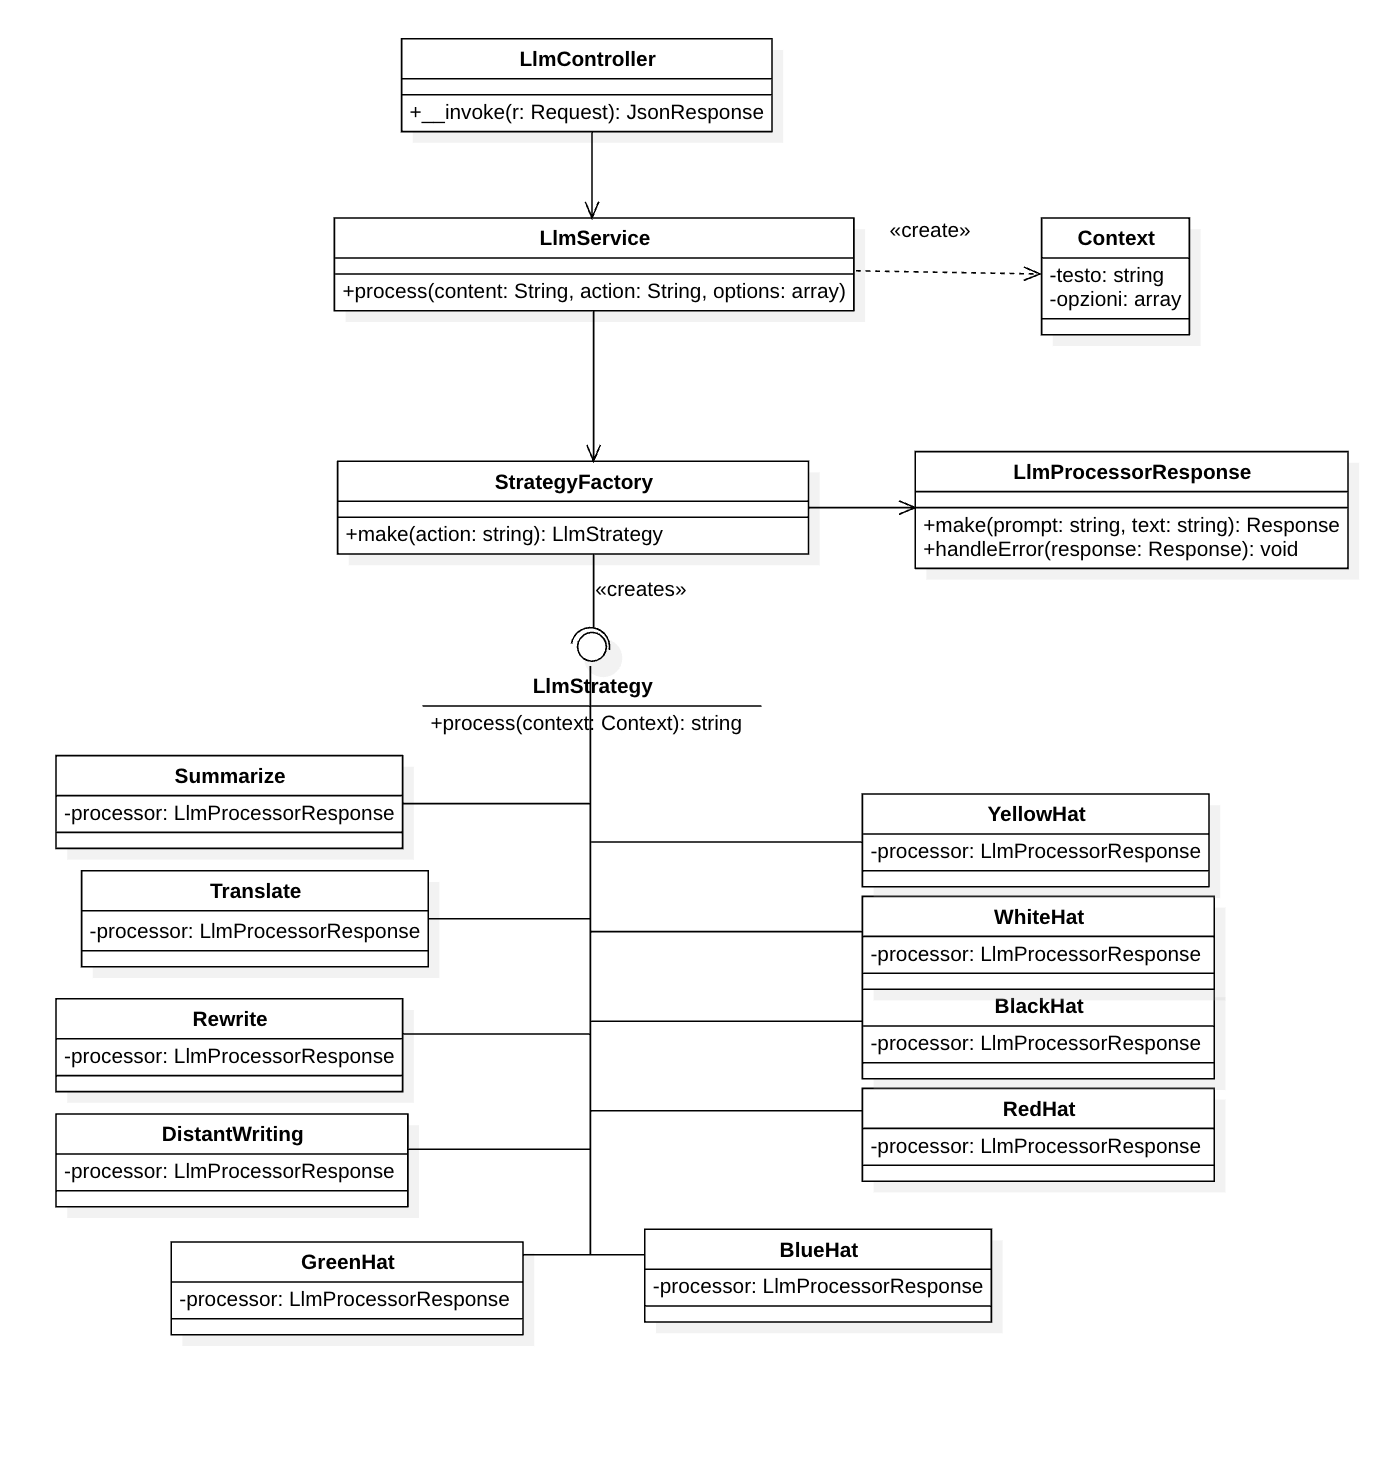
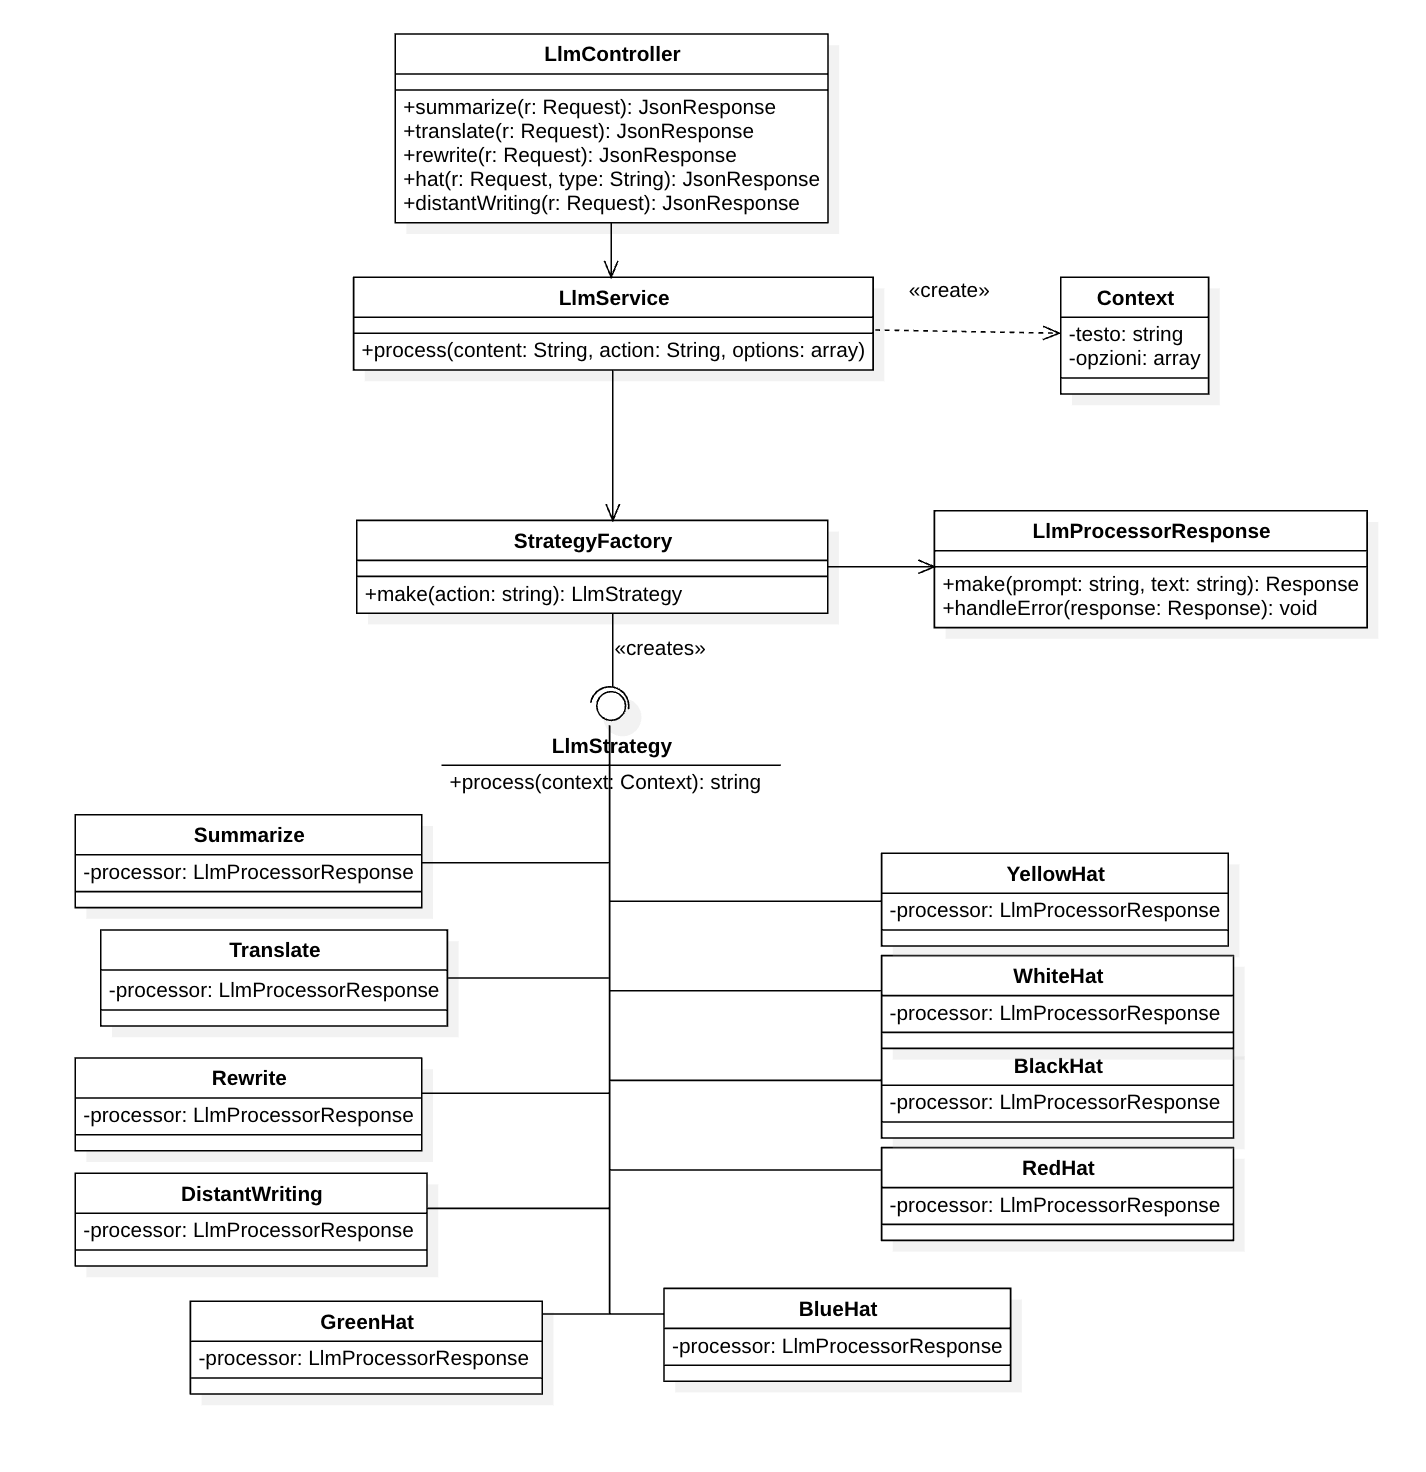
fix parte backend LlmController

diff --git a/PB/latex/Specifica_Tecnica_v0.8.tex b/PB/latex/Specifica_Tecnica_v0.8.tex
@@ -461,9 +461,13 @@ La suddivisione in questi strati facilita lo sviluppo, la manutenzione e la scal
     \caption{Diagramma delle classi per Interazione con LLM}
     \label{fig:interazione-llm}
 \end{figure}
-\subparagraph{LlmController} È il controller HTTP responsabile della gestione delle richieste di elaborazione del testo tramite modelli linguistici. Appartiene al layer di presentazione dell'architettura layered ed è implementato come controller invocabile dato che la sua responsabilità è circoscritta a una sola operazione. Si limita a validare i dati in ingresso, delegare l'elaborazione a \textit{LlmService} e restituire il risultato in formato JSON. Segue la descrizione dei metodi: 
+\subparagraph{LlmController} È il controller HTTP responsabile della gestione delle richieste di elaborazione del testo tramite modelli linguistici. Appartiene al layer di presentazione dell'architettura layered. Si limita a validare i dati in ingresso, delegare l'elaborazione a \textit{LlmService} e restituire il risultato in formato JSON. Segue la descrizione dei metodi: 
 \begin{itemize}
-    \item \texttt{\_\_invoke(Request \$request, string \$id) : JsonResponse} - valida i parametri (il content, l'azione da svolgere e i parametri aggiuntivi dipendenti dall'azione), delega l'elaborazione a \textit{LlmService} e restituisce il risultato in una risposta JSON con status 200.
+    \item \texttt{summarize(Request \$request) : JsonResponse} - valida i parametri (il content), delega l'elaborazione a \textit{LlmService} e restituisce il risultato in una risposta JSON con status 200 in caso di successo, mentre con status 502 in caso di errore.
+    \item \texttt{translate(Request \$request) : JsonResponse} - valida i parametri (il content e la lingua della traduzione), delega l'elaborazione a \textit{LlmService} e restituisce il risultato in una risposta JSON con status 200 in caso di successo, mentre con status 502 in caso di errore.
+    \item \texttt{rewrite(Request \$request) : JsonResponse} - valida i parametri (il content e il tono della riscrittura), delega l'elaborazione a \textit{LlmService} e restituisce il risultato in una risposta JSON con status 200 in caso di successo, mentre con status 502 in caso di errore.
+    \item \texttt{hat(Request \$request, string \$type) : JsonResponse} - valida i parametri (il content), delega l'elaborazione a \textit{LlmService} e restituisce il risultato in una risposta JSON con status 200 in caso di successo, mentre con status 502 in caso di errore; nel caso in cui il tipo di cappello passato come parametro non sia supportato restituisce una risposta con status 400.
+    \item \texttt{distantWriting(Request \$request) : JsonResponse} - valida i parametri (il content), delega l'elaborazione a \textit{LlmService} e restituisce il risultato in una risposta JSON con status 200 in caso di successo, mentre con status 502 in caso di errore.
 \end{itemize}
 \subparagraph{LlmService} È il service responsabile della logica di elaborazione del testo tramite modelli linguistici. Appartiene al layer applicativo dell'architettura layered e gestisce la collaborazione tra \textit{LlmStrategyFactory} e le strategy di elaborazione, che ne eseguono il processo. Si limita a costruire il contesto di esecuzione e delegare il lavoro alle classi di servizio. Segue la descrizione dei metodi:
 \begin{itemize}
@@ -510,7 +514,7 @@ Tutte le strategy implementano \textit{LlmStrategyInterface} e condividono la st
 \end{figure}
 \subparagraph{App} Rappresenta il componente radice dell'applicazione, responsabile per l'inizializzazione dell'interfaccia. Al suo interno vengono istanziati i componenti trasversali all'intera applicazione: \texttt{ActionModal}, \texttt{ToastList} e \texttt{AppLayout}.
 \subparagraph{AppLayout} Componente che rappresenta il layout principale dell'applicazione. Al suo interno vengono definiti la barra laterale di navigazione (\texttt{AppSidebar}) e l'area di contenuto dinamico (\texttt{RouterView}). Il componente garantisce che la struttura della pagina rimanga stabile mentre il contenuto centrale viene sostituito in base al \texttt{URL} attivo.
-\subparagraph{RouterView} Componente nativo di \texttt{Vue Router} che funge da contenitore dinamico all'interno di \textitt{AppLayout}, responsabile del rendering della pagina corrispondente alla rotta \texttt{URL} attiva. A seconda del percorso di navigazione, il componente monta in tempo reale la pagina appropriata: \texttt{NoteEditorPage} (pagina dell'editor della nota) e \texttt{NoteArchivePage} (pagina dell'archivio delle note). La mappatura è definita in \texttt{index.ts}.:
+\subparagraph{RouterView} Componente nativo di \texttt{Vue Router} che funge da contenitore dinamico all'interno di \texttt{AppLayout}, responsabile del rendering della pagina corrispondente alla rotta \texttt{URL} attiva. A seconda del percorso di navigazione, il componente monta in tempo reale la pagina appropriata: \texttt{NoteEditorPage} (pagina dell'editor della nota) e \texttt{NoteArchivePage} (pagina dell'archivio delle note). La mappatura è definita in \texttt{index.ts}.:
 \begin{itemize}
     \item \texttt{/} - la radice è configurata per reindirizzare verso l'archivio delle note, rendendo la pagina la vista iniziale dell'applicazione
     \item \texttt{/notes/new} - route che reindirizza alla pagina di editor vuota, per la creazione di una nuova nota
